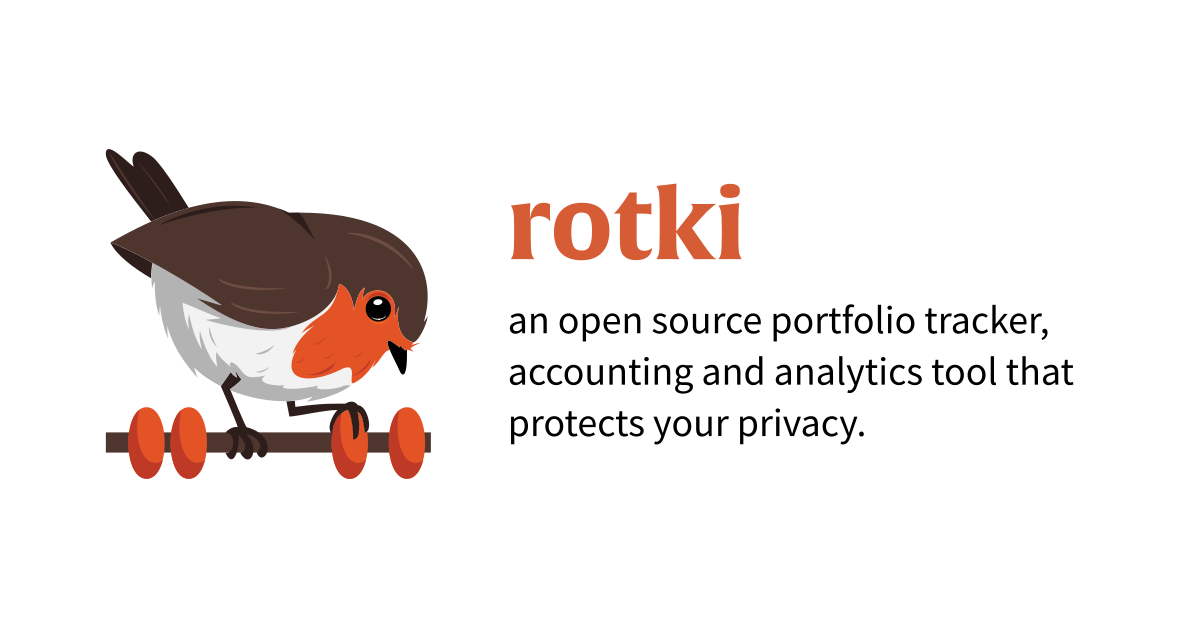
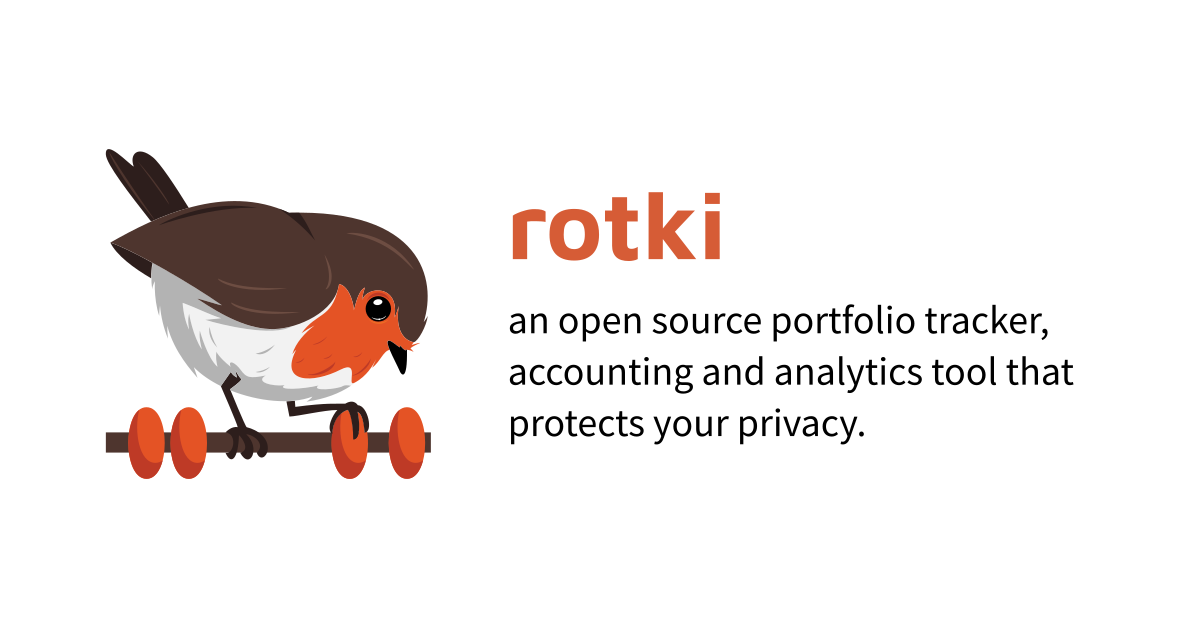
Uses Maven Pro as the header font

Changed region(s): [[0.4317, 0.2723, 0.6167, 0.4236]]

diff --git a/components/documents/impressum/ImpressumContent.vue b/components/documents/impressum/ImpressumContent.vue
@@ -21,7 +21,7 @@
     <paragraph>
       Die Europäische Kommission stellt eine Plattform zur
       Online-Streitbeilegung (OS) bereit:
-      <external-link url="https://ec.europa.eu/consumers/odr" no-referrer />
+      <external-link no-referrer url="https://ec.europa.eu/consumers/odr" />
       . Unsere E-Mail-Adresse finden Sie oben im Impressum
     </paragraph>
 
@@ -100,12 +100,12 @@ export default Vue.extend({
 })
 </script>
 
-<style module lang="scss">
+<style lang="scss" module>
 @import '~assets/css/media.scss';
 @import '~assets/css/main.scss';
 
 .subheading {
-  @apply font-serif text-primary2 font-medium;
+  @apply font-serif text-primary2 font-medium font-bold;
 
   margin-top: 24px;
 

diff --git a/components/Header.vue b/components/Header.vue
@@ -19,7 +19,7 @@ export default Vue.extend({
 })
 </script>
 
-<style module lang="scss">
+<style lang="scss" module>
 @import '~assets/css/main';
 @import '~assets/css/media';
 
@@ -41,7 +41,7 @@ export default Vue.extend({
 }
 
 .title {
-  @apply header text-primary font-serif flex-col col-auto;
+  @apply header text-primary font-serif flex-col col-auto font-bold;
 
   @include text-size(52px, 67px);
 }

diff --git a/components/hero/blocks/Info.vue b/components/hero/blocks/Info.vue
@@ -21,7 +21,7 @@ export default Vue.extend({
 })
 </script>
 
-<style module lang="scss">
+<style lang="scss" module>
 @import '~assets/css/media';
 @import '~assets/css/main';
 
@@ -30,7 +30,7 @@ export default Vue.extend({
 }
 
 .title {
-  @apply flex-col font-serif text-primary2 text-4xl;
+  @apply flex-col font-serif text-primary2 text-4xl font-bold;
 
   letter-spacing: -0.01em;
 

diff --git a/components/common/Heading.vue b/components/common/Heading.vue
@@ -24,12 +24,12 @@ export default Vue.extend({
 })
 </script>
 
-<style module lang="scss">
+<style lang="scss" module>
 @import '~assets/css/media';
 @import '~assets/css/main';
 
 .heading {
-  @apply font-serif text-primary2 font-medium;
+  @apply font-serif text-primary2 font-medium font-bold;
 
   margin-top: 24px;
 

diff --git a/components/common/ActionButton.vue b/components/common/ActionButton.vue
@@ -62,11 +62,11 @@ $button-width: 275px;
 }
 
 .primary {
-  @apply text-white bg-primary hover:bg-shade12;
+  @apply text-white bg-primary hover:bg-shade12 font-bold;
 }
 
 .secondary {
-  @apply text-primary border-primary hover:bg-shade1;
+  @apply text-primary border-primary hover:bg-shade1 font-bold;
 }
 
 .filled {

diff --git a/components/Hero.vue b/components/Hero.vue
@@ -71,7 +71,7 @@ $subtitle-line-height: 42px;
 }
 
 .title {
-  @apply flex flex-row justify-center font-serif text-primary2;
+  @apply flex flex-row justify-center font-serif text-primary2 font-bold;
 
   @include text-size(66px, 84px);
   @include for-size(phone-only) {
